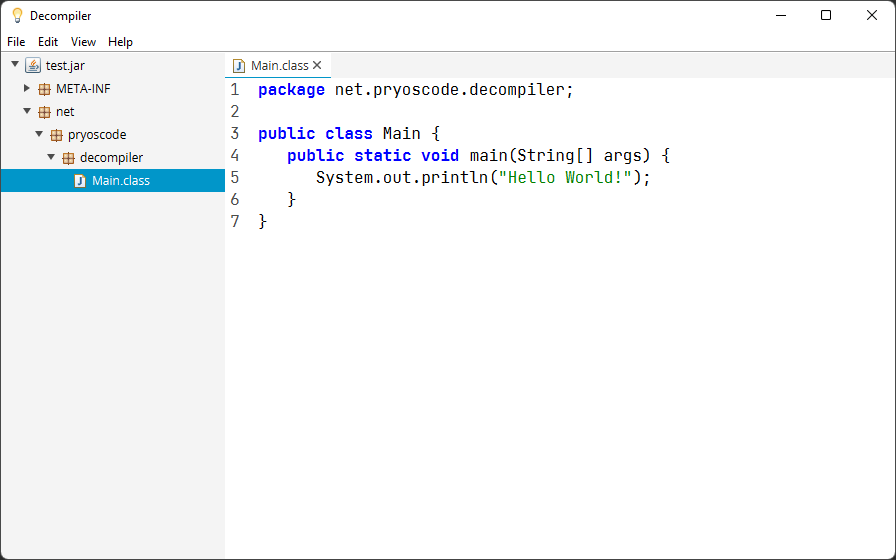
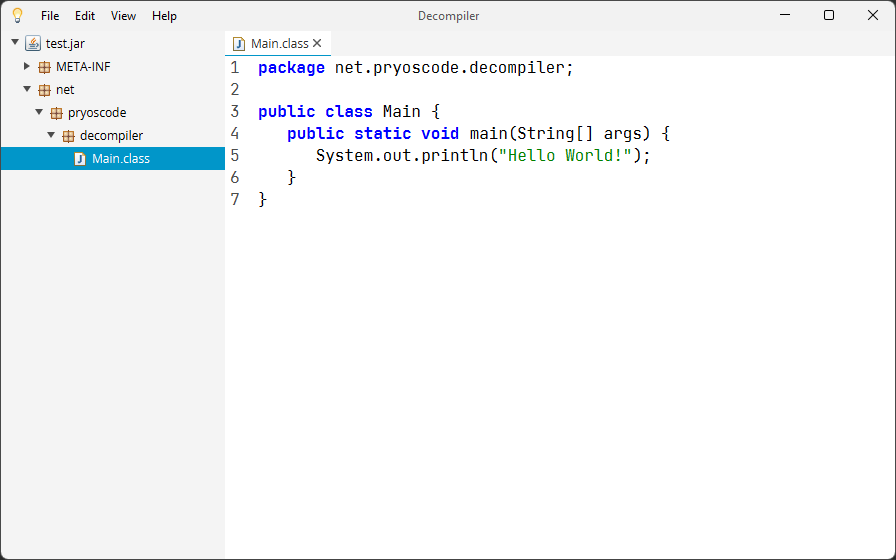
Update Title Bar

Changed region(s): [[0.0, 0.0, 0.75, 0.3643], [0.4688, 0.0, 0.5312, 0.0607]]

diff --git a/src/main/kotlin/net/pryoscode/decompiler/Main.kt b/src/main/kotlin/net/pryoscode/decompiler/Main.kt
@@ -1,7 +1,7 @@
 package net.pryoscode.decompiler
 
+import com.formdev.flatlaf.FlatLightLaf
 import net.pryoscode.decompiler.window.Window
-import javax.swing.UIManager
 
 class Main {
 
@@ -11,7 +11,7 @@ class Main {
         fun main(args: Array<String>) {
             System.setProperty("apple.laf.useScreenMenuBar", "true")
             System.setProperty("apple.awt.application.name", "Decompiler")
-            UIManager.setLookAndFeel(UIManager.getSystemLookAndFeelClassName())
+            FlatLightLaf.setup()
             Window.run(args)
         }
 

diff --git a/src/main/kotlin/net/pryoscode/decompiler/window/Window.kt b/src/main/kotlin/net/pryoscode/decompiler/window/Window.kt
@@ -48,7 +48,7 @@ object Window : JFrame() {
         root.stylesheets.add(styles("global.less"))
         root.stylesheets.add(styles("syntax.less"))
 
-        panel.scene = Scene(root, 894.0, 506.0)
+        panel.scene = Scene(root, 894.0, 528.0)
         panel.scene.setOnDragOver {
             it.acceptTransferModes(*TransferMode.COPY_OR_MOVE)
             it.consume()
